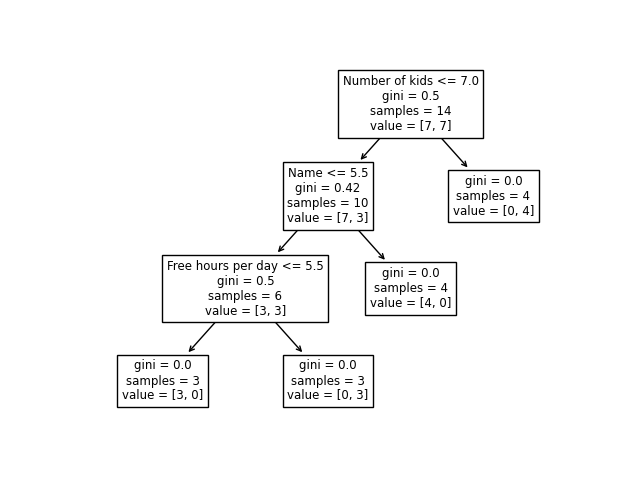
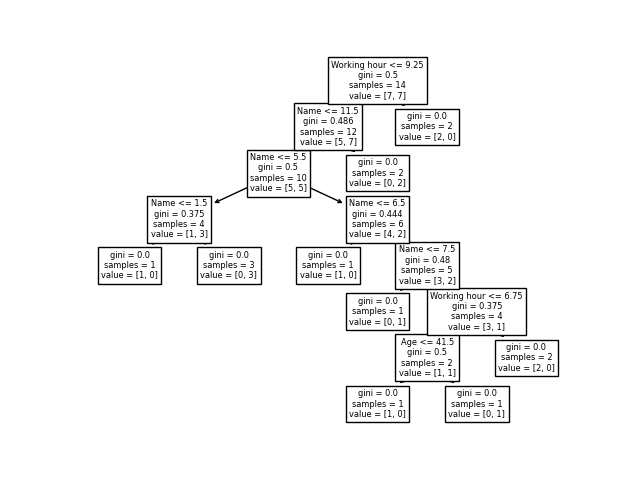
Used a simpler(?) sample.

Changed region(s): [[0.125, 0.0938, 0.875, 0.9062], [0.1562, 0.7188, 0.3438, 0.875], [0.6875, 0.3438, 0.8438, 0.4688]]

diff --git a/EntropyAndInfo.py b/EntropyAndInfo.py
@@ -83,14 +83,8 @@ if __name__=="__main__":
     data:dict={
         "Name":["Mike","Aby","Jack","Tom","Jessica","Tony","Thomas","Samantha","Sandy","Ken","Alvin","Alice","Amanda","Joseph"],
         "Age":[36,24,26,29,24,30,29,24,24,28,55,60,59,60],
-        "Years worked in company":[24,1,2,4,0,4,5,6,0,3,35,40,39,42],
         "Gender":["Male","Female","Male","Male","Female","Male","Male","Female","Female","Male","Male","Female","Female","Male"],
-        "Married":[True,False,False,False,False,True,False,True,True,False,True,False,True,True],
-        "Salary":[6400,2400,4800,5000,2400,4800,5000,3000,2400,1200,10000,24000,24000,24000],
         "Working hour":[12,8,8,10,8.5,8,8,8,8,0,6,7.5,7,7],
-        "Sleeping hours per day":[5.4,7,8,6,7,7,7,8,6.5,8,10,10,9,9],
-        "Free hours per day":[0,5,24,0,6,6,9,5,7,24,4,4,5,5],
-        "Number of kids":[5,0,0,3,0,3,0,9,0,0,36,0,27,27],
         "Able to join the company vacation":[False,False,True,False,True,True,False,True,False,False,True,False,True,True]
     }
 
